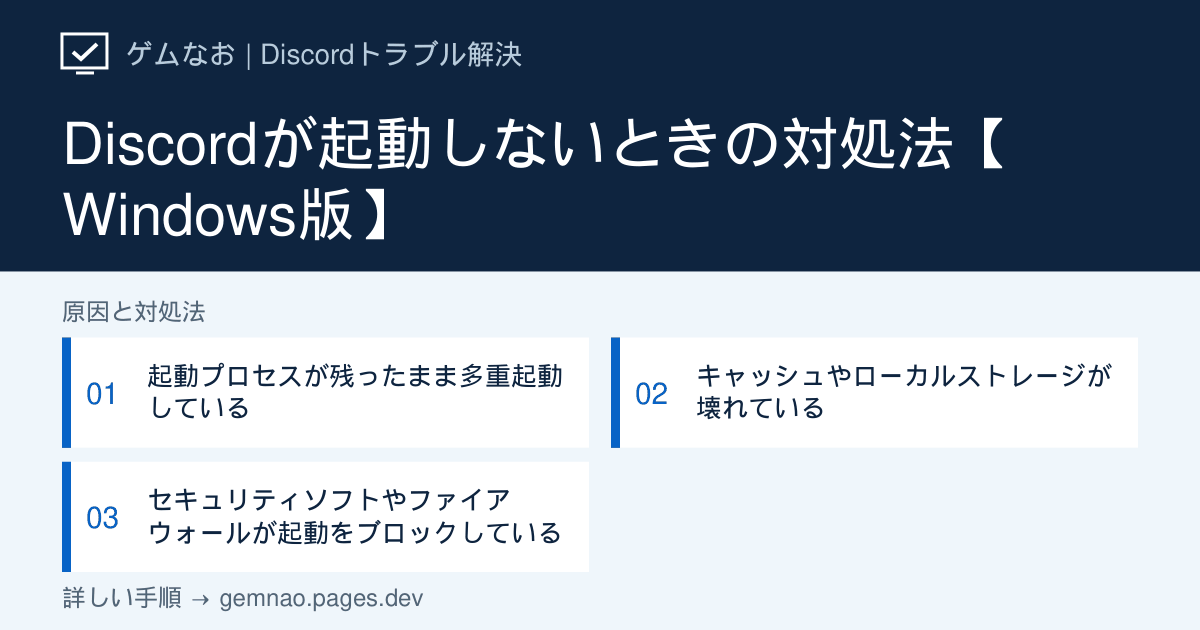
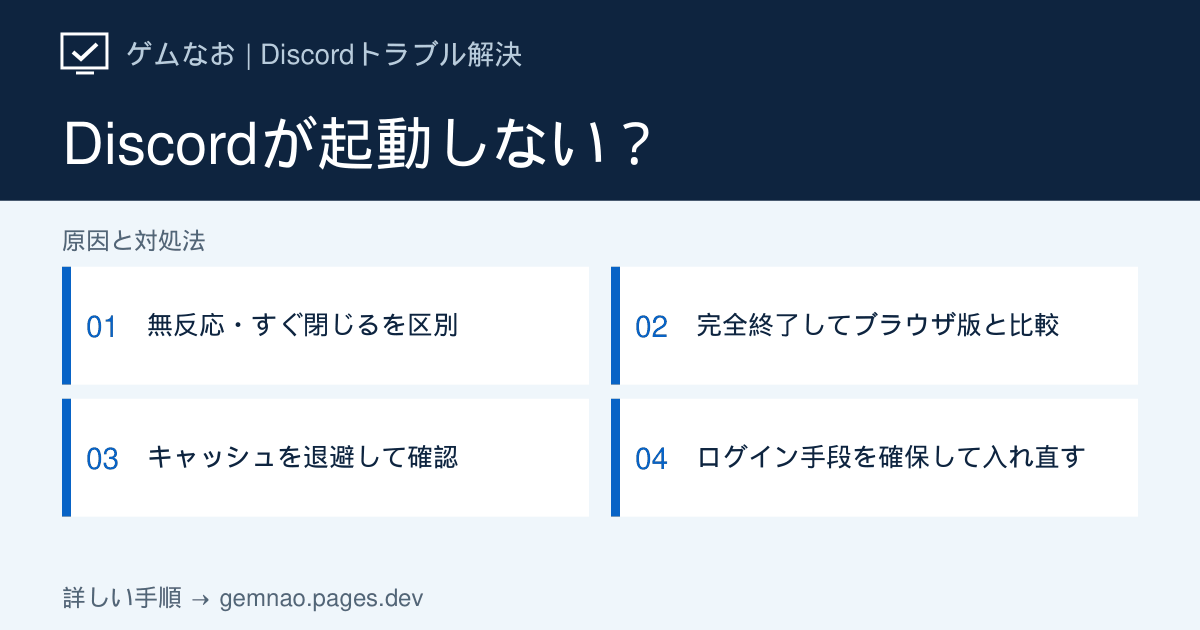
Rewrite Discord startup guide with diagnostic branches and reversible cache checks

diff --git a/lib/discord-articles.ts b/lib/discord-articles.ts
@@ -102,74 +102,103 @@ const existingDiscordArticles: DiscordArticle[] = [
   {
     slug: 'not-opening',
     category: 'launch',
-    title: 'Discordが起動しないときの対処法【Windows版】',
+    title: 'Discordが起動しない原因と直し方｜無反応・すぐ閉じる場合【Windows】',
     shortTitle: 'Discordが起動しない',
-    seoTitle: 'Discordが起動しないときの対処法【Windows版】',
-    metaDescription:
-      'Discordのアイコンを押しても画面が開かない、無反応になる時の切り分け手順です。プロセスの終了、キャッシュ削除、管理者権限での起動を順番に確認します。',
-    symptom:
-      'デスクトップアイコンやタスクトレイのDiscordをクリックしても、ウィンドウが表示されない。クリック後に反応がない、またはすぐに閉じてしまう場合の手順です。',
-    target: 'Windows版 Discordデスクトップアプリ',
-    conclusion:
-      'タスクマネージャーでDiscordの全プロセスを終了してから起動し直し、直らなければキャッシュを削除し、それでも直らなければ管理者として実行します。',
+    seoTitle: 'Discordが起動しない・開かない時の対処法【Windows】',
+    metaDescription: 'Discordを押しても無反応、起動直後に閉じる、ロゴや灰色画面で止まる症状を判定表で切り分け。完全終了、ブラウザ版との比較、キャッシュの退避・復元、再インストールの順に確認します。',
+    symptom: 'Discordのアイコンを押しても画面が出ない、一瞬開いて閉じる、ロゴや灰色の画面から進まない場合のWindows向け手順です。',
+    target: 'Windows版Discordデスクトップアプリ',
+    conclusion: '最初にDiscordを完全終了して起動し直し、次に同じPCのブラウザ版で会話一覧まで開けるか比較します。アプリだけ開かない場合はキャッシュを退避し、改善しなければ再インストールへ。Update Failedなどの表示がある場合は、エラー別の記事へ進んでください。',
     quickFixes: [
-      'タスクマネージャーでDiscordのプロセスをすべて終了してから、もう一度起動する',
-      'Discordを右クリックし「管理者として実行」で起動する',
-      'Discordのキャッシュフォルダーを削除してから起動する',
+      'Ctrl＋Shift＋EscでDiscordを完全終了し、スタートメニューから1回だけ起動する',
+      '同じPCのブラウザ版で会話一覧まで開けるか確認し、アプリだけの問題かを分ける',
+      'アプリだけ失敗する場合はキャッシュを退避して比較。削除や再インストールは後にする',
+    ],
+    diagnosisTitle: 'どこで止まる？ 起動時の症状別の判定表',
+    diagnosisIntro: '「画面が出ない」と「ログインできない」は対処が異なります。アイコンを押した後の画面、タスクマネージャー、ブラウザ版の3つを確認してください。',
+    showStatusCheck: false,
+    diagnosis: [
+      { symptom: '無反応だがタスクマネージャーにDiscordが残っている', check: '通知領域から終了し、残ったDiscordも終了。スタートメニューから開き直す', causeIndex: 1 },
+      { symptom: '一瞬開いて閉じる／Discordのプロセスも消える', check: 'エラー文と時刻を控え、ブラウザ版が使えるか確認する', causeIndex: 2 },
+      { symptom: 'ロゴ・灰色画面のまま止まる', check: 'ブラウザ版で会話一覧まで開けるか比較。読み込み中の記事も参照', causeIndex: 2 },
+      { symptom: 'ブラウザ版は使えるがアプリだけ開かない', check: '完全終了後にCacheを退避し、作り直された状態で起動を確認', causeIndex: 3 },
+      { symptom: 'アプリもブラウザ版も会話一覧まで進めない', check: '障害情報・他サイト・ログイン時のエラーを確認。アプリ削除は保留', causeIndex: 2 },
+      { symptom: 'Update Failed／Installation has failedが表示される', check: '表示された文言に対応する関連記事へ進み、更新とインストール失敗を区別', causeIndex: 5 },
+      { symptom: '起動時にブロック・隔離の通知が出る', check: 'セキュリティソフトの履歴で時刻・対象ファイル・検出内容を確認', causeIndex: 4 },
     ],
     causes: [
       {
-        title: '起動プロセスが残ったまま多重起動している',
-        description:
-          '前回の終了時にプロセスが残っていると、新しく起動しようとしても画面が開きません。',
+        title: '完全終了して、起動経路を変えて確認する',
+        description: 'ウィンドウを閉じてもDiscordがバックグラウンドに残ることがあります。まず残った処理を終了し、古いショートカットの問題も分けます。',
         actions: [
-          'Ctrl＋Shift＋Escでタスクマネージャーを開く',
-          '「プロセス」タブでDiscordに関する項目をすべて選び「タスクの終了」を押す',
-          'タスクトレイのDiscordアイコンも右クリックして終了する',
-          'あらためてDiscordを起動して確認する',
+          'タスクバー右下の通知領域（隠れたアイコンは上向き矢印）にDiscordがあれば、右クリックして終了する。通話・配信も切れるため、利用中なら先に終了を伝える',
+          'Ctrl＋Shift＋Escでタスクマネージャーを開き、「プロセス」でDiscordを探す。残っているDiscordを選択して「タスクの終了」を実行する',
+          'Discordの項目がなくなったら30秒ほど待ち、スタートメニューでDiscordを検索して1回だけ開く。ウィンドウが出たら会話一覧まで進むか確認する',
+          'スタートメニューからは開くなら、その起動方法を使って古いショートカットを作り直す。開かない場合はPCを再起動して同じ操作を1回試し、STEP 2へ進む',
+        ],
+        note: 'Update.exeなど別の名前の処理を、名前だけでまとめて終了しないでください。通常の起動確認では、まずDiscordと確認できる項目だけを対象にします。',
+      },
+      {
+        title: 'ブラウザ版と比較し、アプリ・接続・ログインを分ける',
+        description: 'ブラウザでDiscordの紹介ページが表示されるだけでは比較になりません。同じアカウントで会話一覧が読み込めるかを確認します。',
+        actions: [
+          'EdgeやChromeでdiscord.com/appを開く。ログインが必要なら公式ドメインを確認してログインし、会話一覧が表示されるかを見る',
+          'ブラウザ版で会話が開くなら、当面の連絡はそこで続けられる。アプリ側の切り分けとしてSTEP 3へ進む',
+          'ブラウザ版も読み込み中なら、Discord Statusで障害を確認し、別のサイトも開けるか比較する。障害がある場合は復旧後に再確認する',
+          '他サイトも開かないなら接続側を先に確認する。Discordだけ進まない場合も、障害が未掲載という理由だけでPC側の問題とは断定しない',
+          'メール・パスワード・認証コードの画面で止まるなら、アプリが起動しない問題とは分けて「ログインできない」記事へ。ロゴや灰色画面が続く場合は「読み込み中から進まない」記事の比較手順へ進む',
+        ],
+        note: 'ブラウザ版の成功は、アプリ側を調べる手掛かりです。原因がキャッシュ破損と確定するわけではありません。',
+      },
+      {
+        title: 'アプリだけ開かない場合は、キャッシュを退避して比較する',
+        description: '公式が案内するCacheの確認を、元へ戻せるよう名前変更で行います。アカウントの削除や、Discordフォルダー全体の初期化とは別の操作です。',
+        actions: [
+          'STEP 1の方法でDiscordを完全終了する。Windows＋Rを押し、%appdata%/discord を入力してEnterを押す',
+          '開いたフォルダー内の「Cache」を「Cache.backup-20260928」など未使用の名前へ変更する。日付は作業日に合わせる。見つからなければ作成せず、次の確認へ進む',
+          'Discordを起動し、会話一覧が表示されるか確認する。開いた場合は一度終了して再起動し、続けて開けるかも確認する',
+          '改善しない場合、同じフォルダーにCode Cache・GPUCacheがあれば、完全終了→1つだけ名前変更→起動確認を順番に行う。複数を同時に変えない',
+          '元へ戻す場合はDiscordを終了し、新しくできたCacheなどを「Cache.test」など別名へ変更してから、退避したフォルダーを元の名前へ戻す。上書きや中身の混在は避ける',
+          '名前変更できない場合はDiscordが残っていないか確認し、再起動後に試す。アクセス拒否が続く場合は無理に権限を変更せず、STEP 4へ進む',
+        ],
+        note: '再ログインを求められる可能性に備えて、メール・パスワード・二要素認証が使えることを確認してください。サーバーやメッセージと、端末内のログイン状態・設定は別です。退避データは第三者へ送らず、安定動作を確認してから不要分を削除します。',
+      },
+      {
+        title: 'ブロック通知がある場合は、検出内容を確認する',
+        description: '「開かないからセキュリティソフトが原因」とは決めつけず、起動時刻と一致する記録があるかを調べます。',
+        actions: [
+          'Windows セキュリティを開き、「ウイルスと脅威の防止」→「保護の履歴」で、Discordを起動した時刻付近の記録を確認する。他社製ソフトならそのソフトの検出履歴を開く',
+          '対象ファイルの場所・検出名・処理内容を控える。Discordという名前だけで隔離解除や除外登録をしない',
+          '非公式サイトから取得したインストーラーなら使い続けず、discord.com/downloadから取得し直す。公式から取得したものでも検出される場合はソフト提供元や管理者へ確認する',
+          '記録が見つからず、キャッシュ退避でも変化がない場合はSTEP 5へ進む。社用・学校用PCでは管理者にインストールや実行の許可を確認する',
         ],
       },
       {
-        title: 'キャッシュやローカルストレージが壊れている',
-        description:
-          '更新や強制終了の後、キャッシュファイルが壊れて読み込みに失敗することがあります。',
+        title: '改善しない場合は、ログイン手段を確保して再インストールする',
+        description: '完全終了・ブラウザ比較・キャッシュ確認でもアプリだけ開かない場合の後段です。更新エラーやインストールエラーが出た場合は、その表示に合う関連記事も使ってください。',
         actions: [
-          'Discordを完全に終了する（タスクトレイも確認）',
-          'Windows＋Rで「ファイル名を指定して実行」を開き、%appdata%\\discord\\Cache を入力してフォルダーを開く',
-          'Cacheフォルダーの中身を削除する（フォルダー自体は残してよい）',
-          '同じ階層のCode Cache、GPUCacheがあれば同様に中身を削除する',
-          'Discordを起動して読み込まれるか確認する',
+          'ログイン用メール・パスワード・二要素認証またはバックアップコードを使えることを確認する。別端末でログイン済みなら、その端末はログアウトしない',
+          'Windowsの設定→「アプリ」→「インストールされているアプリ」（Windows 10では「アプリと機能」）でDiscordをアンインストールする',
+          'Discordが終了していることを確認し、Windows＋R→%appdata%で開いた場所に残るDiscordフォルダーと、%localappdata%で開いた場所に残るDiscordフォルダーを確認する',
+          'ローカル設定を残す必要があれば、それぞれ別の場所にコピーして区別できる名前で保管する。公式の入れ直し手順に従い、元の場所に残るDiscordフォルダーを削除する。AppDataやLocalフォルダー全体は対象にしない',
+          'PCを再起動し、discord.com/downloadからWindows版を入れ直す。ログイン後に会話一覧が表示され、終了して開き直しても使えるかを確認する',
+          'Update Failedが出たら「Update Failed・更新ループ」、Installation has failedなら「Installation has failed」の関連記事へ。起動直後に終了し続ける場合は「Discordが落ちる」で発生条件を確認する',
         ],
-        note: '削除するのはキャッシュのみです。ログイン情報やサーバーの並び順はDiscordのアカウント側に保存されているため、通常は消えません。',
-      },
-      {
-        title: 'セキュリティソフトやファイアウォールが起動をブロックしている',
-        description:
-          'ウイルス対策ソフトがDiscordの実行ファイルを隔離・ブロックしている場合、起動画面自体が表示されません。',
-        actions: [
-          'セキュリティソフトの隔離・ブロック履歴にDiscordが含まれていないか確認する',
-          '含まれている場合は許可リストに追加する（設定内容はソフトごとに異なるため、各ソフトのヘルプに従う）',
-          '社給PCや制限されたネットワークの場合は、管理者に起動許可を確認する',
-        ],
+        note: '再インストール後に古いDiscordフォルダー全体を戻すと、不調の原因も戻る可能性があります。サーバーへの参加情報や送信済みメッセージはアカウント側に残りますが、端末の設定まで全部引き継がれるとは限りません。',
       },
     ],
-    ifNotFixed:
-      'ここまでで直らない場合は、Discordを完全にアンインストールしてから公式サイト（discord.com）から最新のインストーラーを取得し、再インストールしてください。再インストール後もサーバーの参加履歴や設定はアカウントに保存されているため、通常は引き継がれます。',
+    ifNotFixed: '相談時は「起動後に何が見えるか／エラー全文／発生時刻／ブラウザ版の結果／完全終了・キャッシュ退避・再インストールの結果／Windowsのバージョン」をまとめます。記入例：アイコンを押すと一瞬だけ画面が出て閉じる。ブラウザ版では会話可能。Cache退避後も同じ。WindowsのバージョンはWindows＋R→winverで確認できます。画面の画像を送る場合はメールアドレスやDM本文を隠してください。',
     faqs: [
-      {
-        question: 'キャッシュを削除するとログイン情報も消えますか？',
-        answer:
-          '通常は消えません。ログイン状態やサーバー設定はDiscordのアカウント側（クラウド側）で管理されているため、キャッシュ削除後に再ログインを求められる場合はありますが、サーバーの参加履歴などは残ります。',
-      },
-      {
-        question: '再インストールしても起動しない場合は？',
-        answer:
-          'PC自体の再起動を試し、それでも直らない場合はDiscord Statusで大規模障害が起きていないか確認したうえで、公式サポートへの問い合わせを検討してください。',
-      },
+      { question: '管理者として実行するのを最初に試すべきですか？', answer: 'まず完全終了とブラウザ版との比較を行います。公式には管理者実行の案内もありますが、通常起動できないすべての原因を解決する操作ではありません。権限の問題が疑われる場合に限定し、管理されたPCでは管理者へ確認してください。' },
+      { question: 'キャッシュを消すとアカウントやメッセージも消えますか？', answer: 'Cacheの退避はアカウント削除ではなく、送信済みメッセージやサーバー参加情報を削除する操作でもありません。ただし端末のログイン状態が必ず維持されるとは限らないため、再ログイン手段は先に確認します。' },
+      { question: 'アプリが開かなくても通話や連絡はできますか？', answer: '同じアカウントでブラウザ版の会話一覧が開ければ、そこで連絡を続けられます。通話にはブラウザのマイク許可などが必要です。アプリが直るまでの一時的な利用先として使えます。' },
+      { question: 'Cacheフォルダーがありません', answer: 'キャッシュがまだ生成されていない場合もあります。フォルダーを自作したり似た名前の別アプリのデータを消したりせず、ブラウザ版との比較結果を確認して次の手順へ進んでください。' },
     ],
-    sources: [generalTroubleshooting, discordStatus],
-    related: ['update-failed', 'installation-failed', 'crashing'],
-    checkedAt: '2026-09-16',
+    sources: [generalTroubleshooting, support('209099387--Windows-Installer-Errors', 'Windowsのインストーラーエラー（英語）'), discordStatus],
+    related: ['loading-stuck', 'update-failed', 'installation-failed', 'crashing', 'login-error'],
+    ogTitle: 'Discordが起動しない？',
+    ogSteps: ['無反応・すぐ閉じるを区別', '完全終了してブラウザ版と比較', 'キャッシュを退避して確認', 'ログイン手段を確保して入れ直す'],
+    checkedAt: '2026-09-28',
     status: 'verified',
   },
   {

diff --git a/lib/og-image-manifest.ts b/lib/og-image-manifest.ts
@@ -21,7 +21,7 @@ export const ogImageManifest: Record<string, string> = {
   "/discord/mic-not-working": "230d5d46",
   "/discord/mic-volume-low": "148725ee",
   "/discord/no-route": "7419f17d",
-  "/discord/not-opening": "6ef5ed70",
+  "/discord/not-opening": "27fdd405",
   "/discord/notifications-not-working": "4ab41adc",
   "/discord/overlay-not-showing": "912a94f2",
   "/discord/phone-verification-error": "7266d12e",
